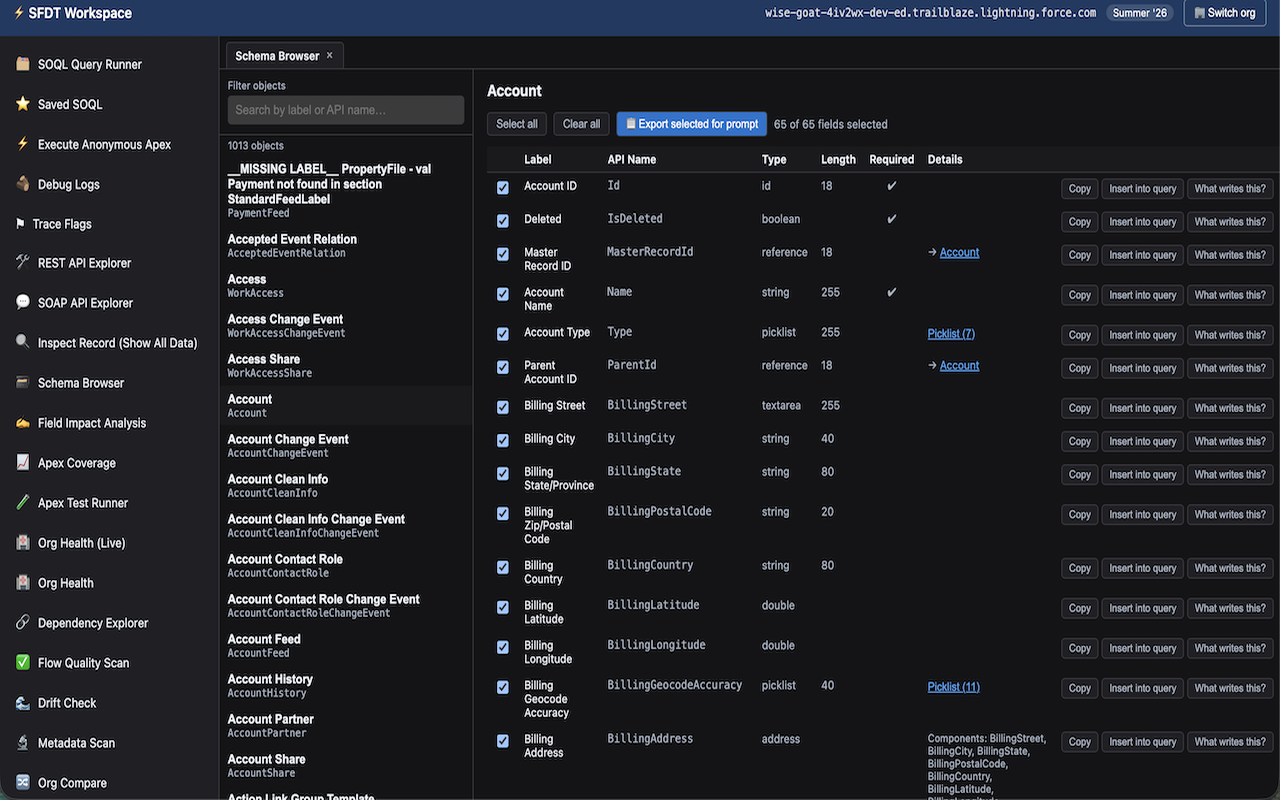
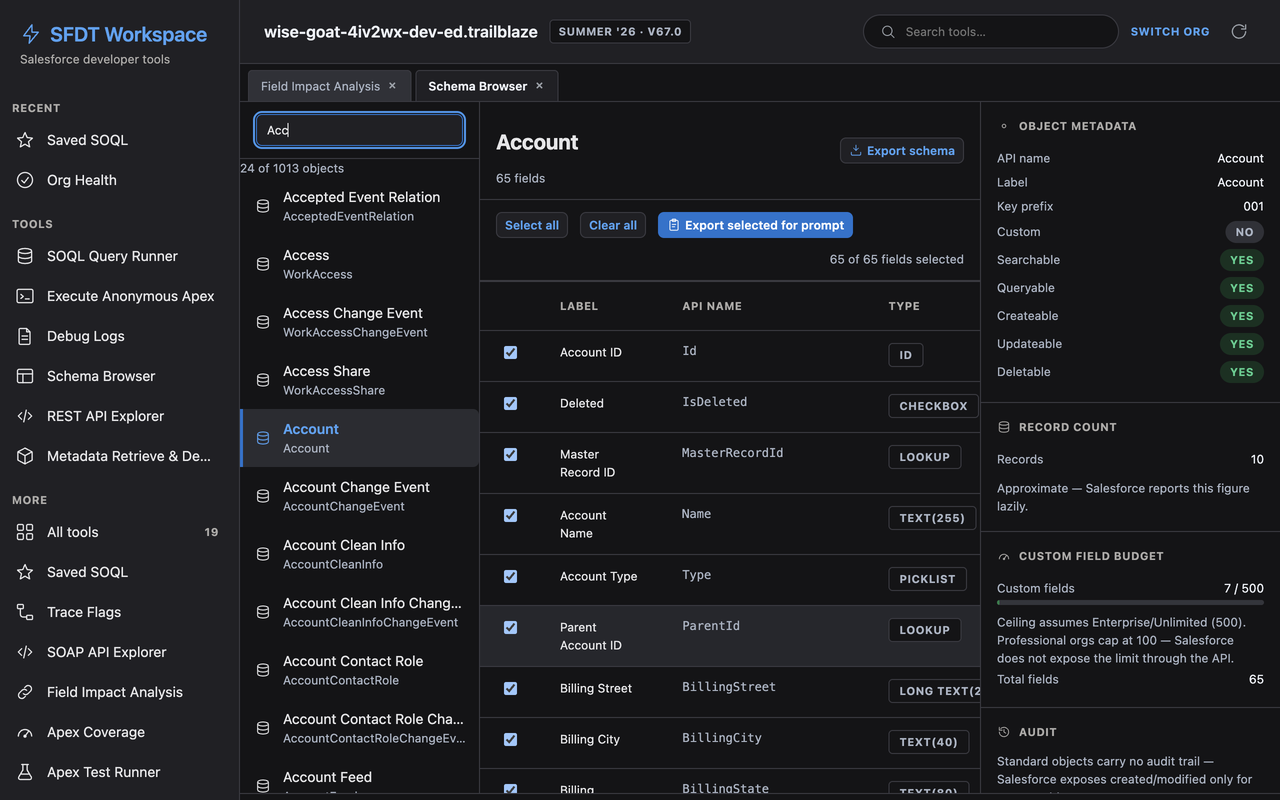
assets(extension): recapture featured screenshots for 0.16.1, regenerate promo tiles (#32)
Slots 1, 3, 4 and 5 recaptured against the wise-goat Trailblaze dev org by
window ID, cropped to 1280x800 RGB; slot 5 is now the side panel
(final_05-side-panel.png replaces final_05-cmd-pallet.png). Slot 2 keeps the
July frame (no active flows in this org). Both promo tiles regenerated:
make-promo-tile.py --check was failing.

diff --git a/extension/listing.md b/extension/listing.md
@@ -235,7 +235,7 @@ All three are truthful for this item and must be ticked or the submission will n
 
 **Specs:** 1280×800, PNG, max 5 shown as the featured set, and **slot 1 is the hero**. The featured-5 order and the rationale for it live in `store-assets/README.md` — that file is the source of truth, not duplicated here.
 
-The featured-5 files in `store-assets/` (`final_01-workspace.png`, `final_02-field-impact.png`, `final_03-schema-browser.png`, `final_04-SOQL-Runner.png`, `final_05-cmd-pallet.png`) are the current set. Recapturing is a separate human task against a scratch org, never a production one.
+The featured-5 files in `store-assets/` (`final_01-workspace.png`, `final_02-field-impact.png`, `final_03-schema-browser.png`, `final_04-SOQL-Runner.png`, `final_05-side-panel.png`) are the current set. Recapturing is a separate human task against a scratch org, never a production one.
 
 The listing can be fully pre-positioned without touching these — the store keeps the existing screenshots if none are uploaded.
 
